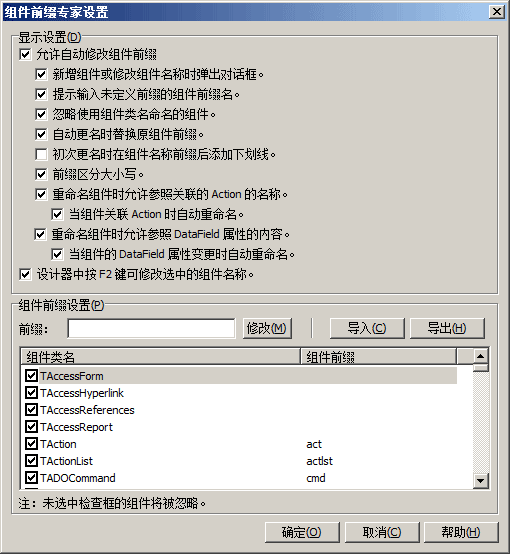
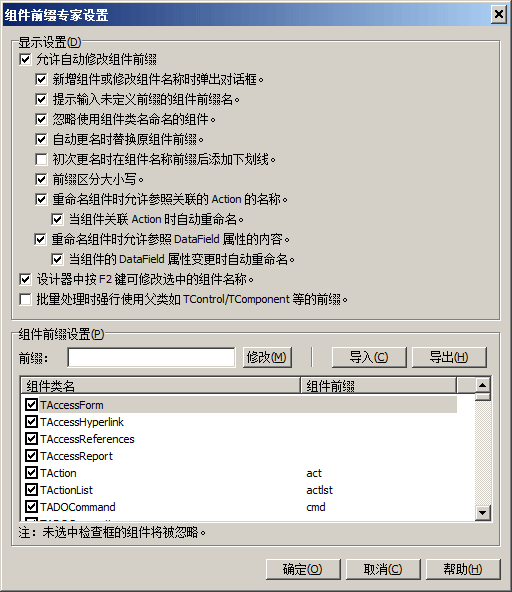
* [Prefix Wizard] Update Help and Language Items.

Changed region(s): [[0.0, 0.0, 1.0, 0.9819]]

diff --git a/Help/CnWizards_ENU/wizards/prefixwizard.htm b/Help/CnWizards_ENU/wizards/prefixwizard.htm
@@ -230,6 +230,7 @@ Settings dialog of this wizard is as below:</p>
       <li><p><b>Use DataField as New Name if this Property Exists</b>: If checked and if the component has an DataField property, use the prefix + DataField value as the new name of this component.</p></li>
       <li><p><b>Auto Rename when DataField Changed</b>: If checked and when the DataField property of an unnamed component, or named but does not have a correct prefix, or has a prefix + digital, changed (except to ''), component name will be renamed to prefix + DataField value.</p></li>
       <li><p><b>Use F2 Key to Rename Selected Component in Designer.</b>: If checked, we can use F2 Key in designer to rename selected component.</p></li>
+      <li><p><b>Force to Use Ancestor Prefix like TControl/TComponent when Batch Processing</b>: Caution! If this option is checked, the prefix of the parent class (e.g., TControl/TComponent) will be prioritized when batch-processing component prefixes. For example, if the prefix for class TControl is set to "ctl" and this option is checked, all subclasses of TControl, such as TButton, will use "ctl" instead of their own prefixes (e.g., "btn") during batch processing.</p></li>
     </ul>
   </li>
   <li>
